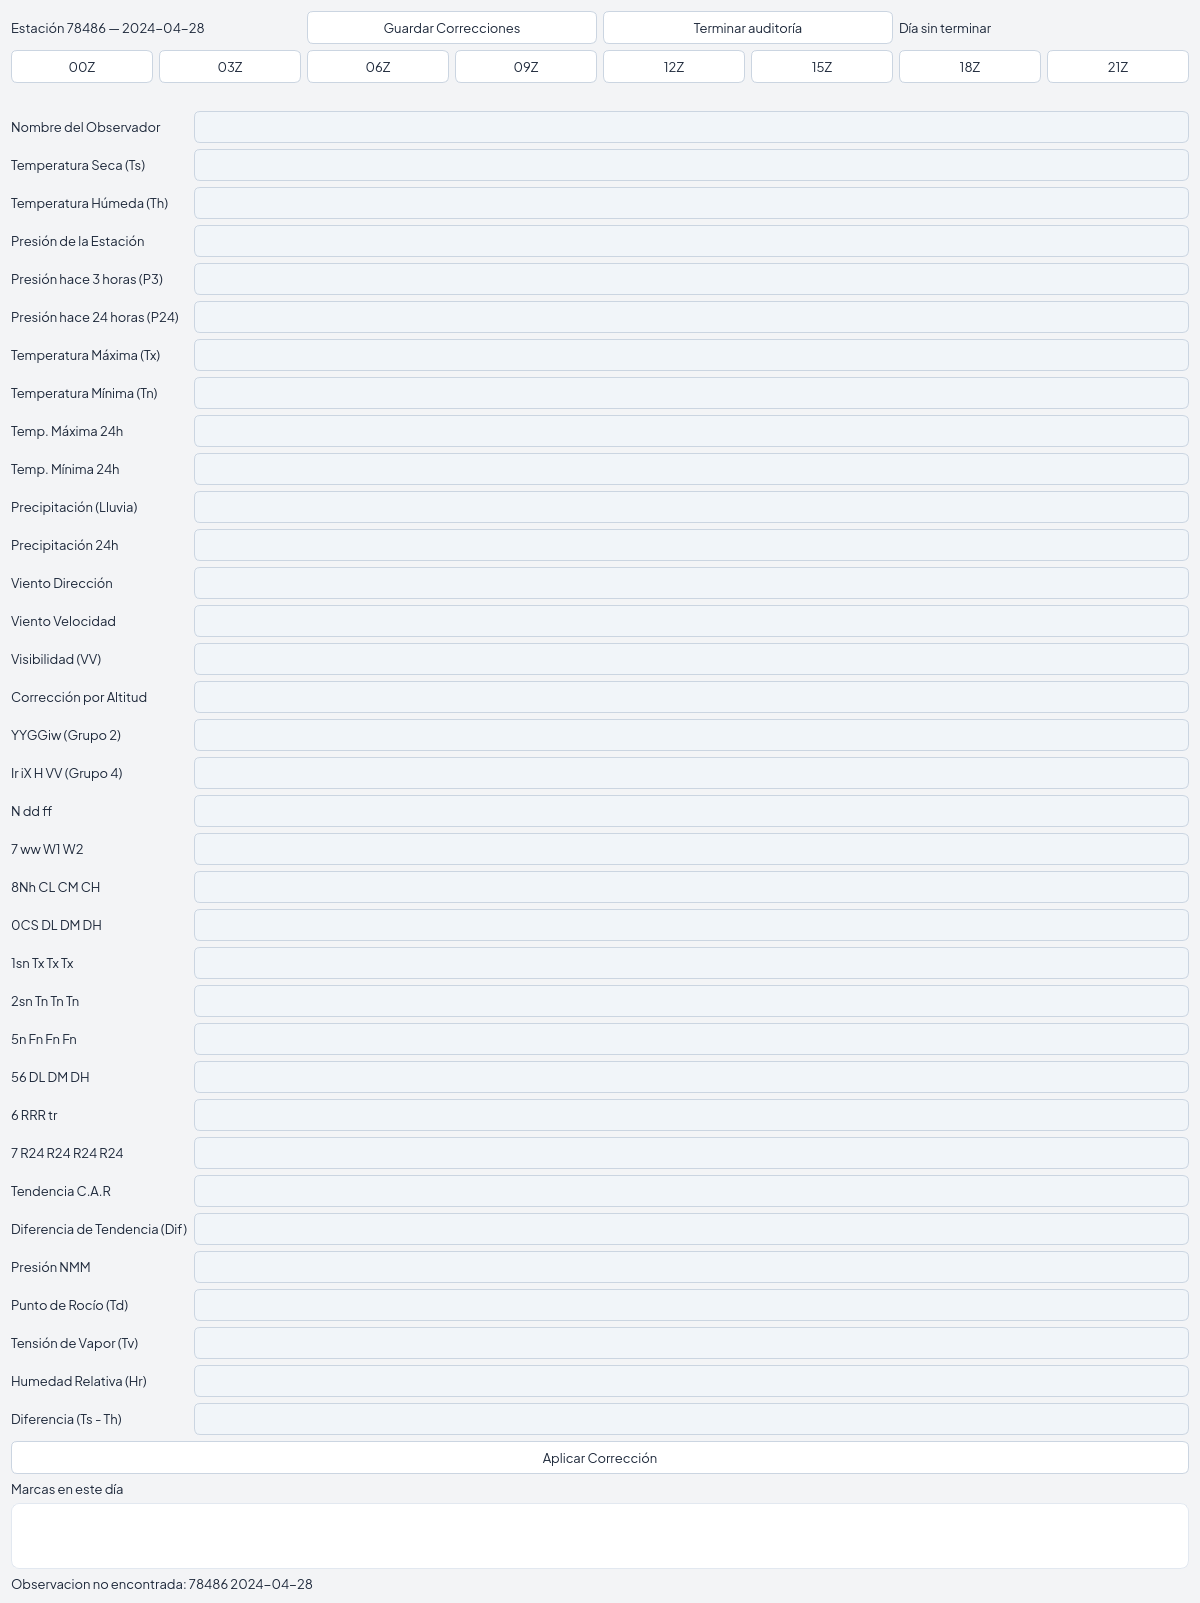
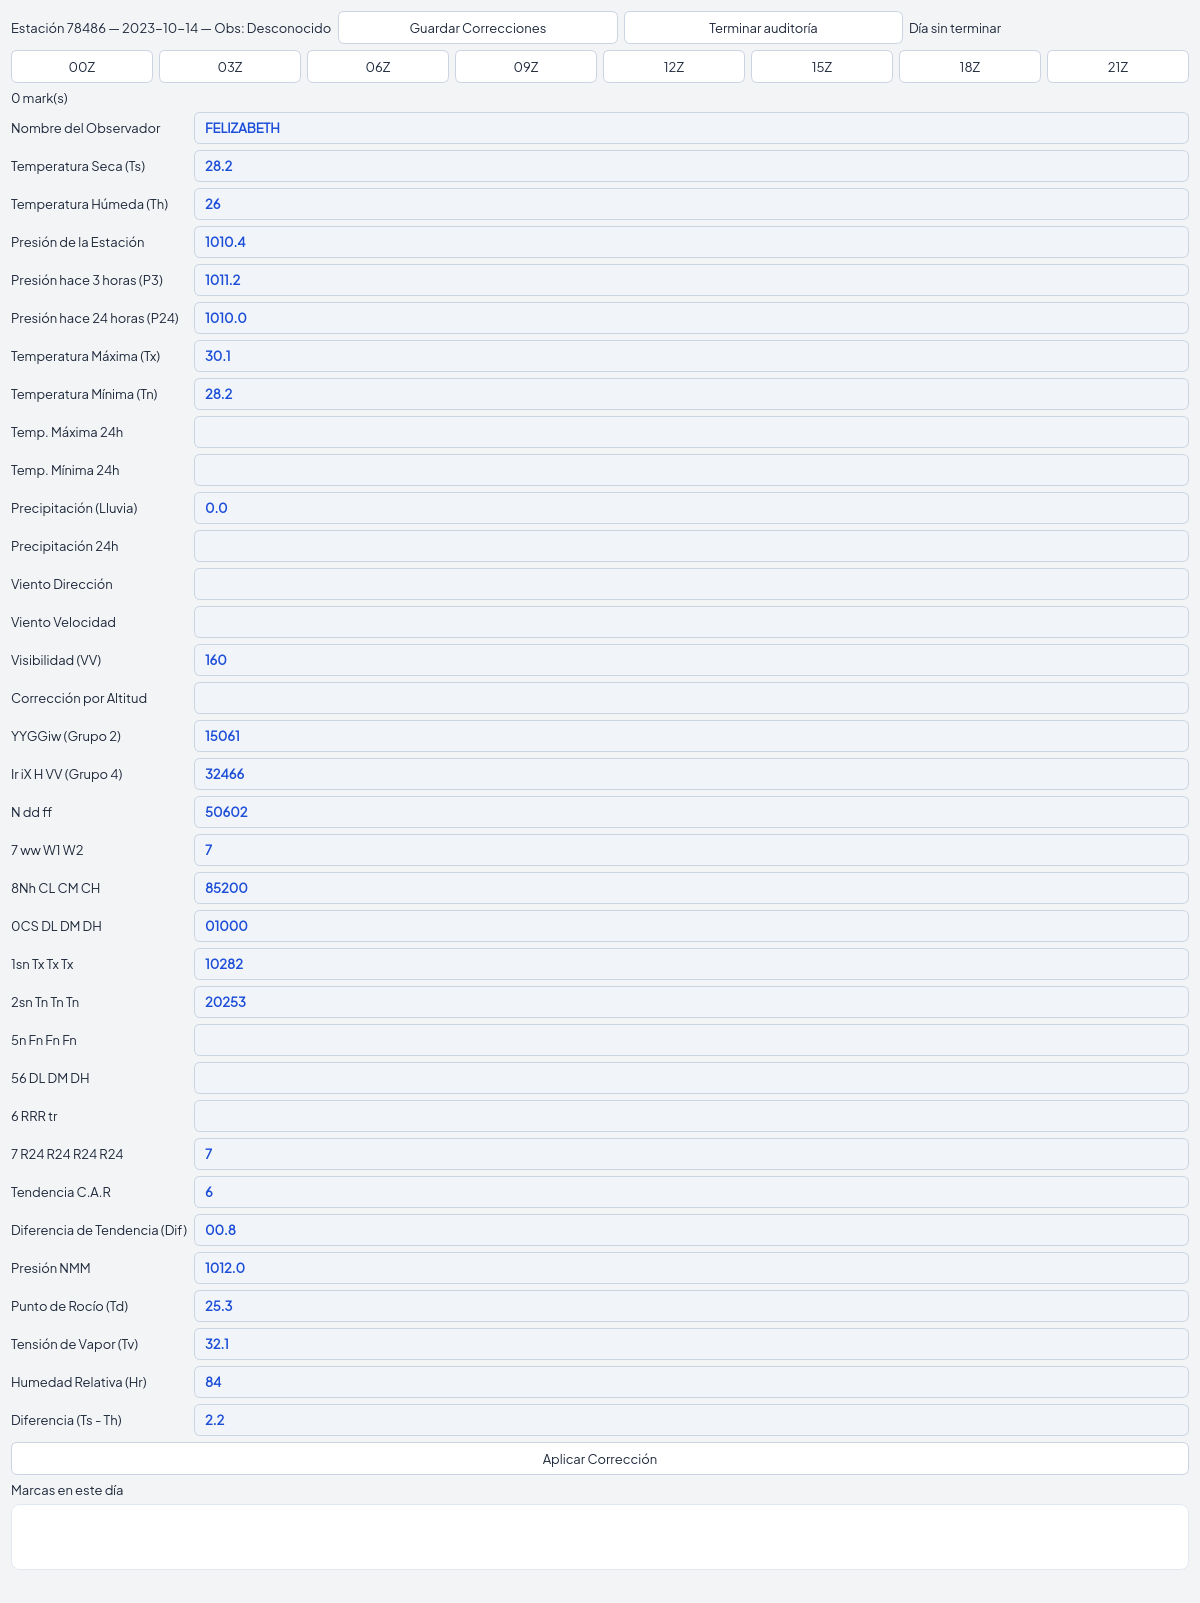
fix(audit): read the schema 2 day, so migrated observations can be audited
Found while capturing evidence with the owner's real database: the audit
window opened every migrated day as an empty observation.

load_observation_with_audit() read doc['horas'] — the legacy shape — while the
application writes schema 2, where the hours live under 'synop' with the FORM
keys already (meteo_4_1, ts, ...). The function now takes that branch through
day_document_from_stored() and builds the flat oracle view from it, keeping the
legacy branch untouched. The verbatim auto-mark rule ('Falta nombre de
observador') works again on today's documents.

Verified on the real archive: 78486 / 2023-10-14 now loads its eight hours
(06Z ts=28.2, Nddff=50602, observer FELIZABETH).

Note: the real database was migrated to M007 (audit_days), the same additive
step the application runs at startup (user_version 6 -> 7).

Tests: 3 new (a schema 2 day loads, a legacy day still loads, the missing
observer of a schema 2 hour is auto-marked). Full suite: 779 passed.

diff --git a/tests/test_a20_audit_report.py b/tests/test_a20_audit_report.py
@@ -385,3 +385,51 @@ def test_a_clean_day_still_reads_as_audited_once_closed(fresh_db):
         auditado_por="qc@oms",
     )
     assert "auditado" in day_badge(fresh_db, "78486", day)
+
+
+# --------------------------- the audit view reads the schema 2 day (round 25)
+
+
+def test_the_audit_view_loads_a_schema2_day(fresh_db):
+    """Migrated days store {synop{...}}; the oracle shape is flat."""
+    from oms_core.services import synoptic as synoptic_service
+
+    synoptic_service.save_hour(fresh_db, "78486", "2024-04-28", "06Z", {
+        "ts": "28.4", "meteo_4_1": "50602", "meteo_4_6": "70311",
+        "nombre_observador": "YASSER GALAN",
+    })
+    data = audit_service.load_observation_with_audit(fresh_db, "78486", "2024-04-28")
+    hour = data["observation"]["06Z"]
+    assert hour["ts"] == "28.4"
+    assert hour["meteo_4_1"] == "50602"
+    assert hour["observador"] == "YASSER GALAN"
+
+
+def test_the_audit_view_still_reads_a_legacy_day(fresh_db):
+    """The old {horas{...}} documents keep working."""
+    import json
+
+    fresh_db.execute(
+        "INSERT INTO summary_logs (station_id, year, month, day, kind, data)"
+        " VALUES ('78486', 2024, 5, 9, 'diario', ?)",
+        (json.dumps({
+            "meta": {"estacion": "78486", "fecha": "09052024", "observador": "MARTA"},
+            "horas": {"09Z": {"datos": {"ts": "25.1"},
+                              "synop": {"Nddff": "40102"},
+                              "observador": "MARTA"}},
+        }),),
+    )
+    fresh_db.commit()
+    data = audit_service.load_observation_with_audit(fresh_db, "78486", "2024-05-09")
+    assert data["observation"]["09Z"]["ts"] == "25.1"
+    assert data["observation"]["09Z"]["meteo_4_1"] == "40102"
+
+
+def test_a_schema2_hour_without_observer_is_auto_marked(fresh_db):
+    from oms_core.services import synoptic as synoptic_service
+
+    synoptic_service.save_hour(fresh_db, "78486", "2024-04-30", "12Z", {"ts": "27.0"})
+    data = audit_service.load_observation_with_audit(fresh_db, "78486", "2024-04-30")
+    marks = [m for m in data["error_marks"] if m["campo"] == "observador"]
+    assert [m["hora"] for m in marks] == ["12Z"]
+    assert marks[0]["marcado_por"] == "Sistema de Calidad"

diff --git a/oms_core/services/audit.py b/oms_core/services/audit.py
@@ -488,9 +488,25 @@ def load_observation_with_audit(
         "observador": meta_observador,
     }
     horas = doc.get("horas") if isinstance(doc.get("horas"), dict) else {}
-    for hora_key, hora_val in horas.items():
-        if isinstance(hora_val, dict):
-            observation[hora_key] = _flatten_hora(hora_val, meta_observador, station)
+    if horas:
+        for hora_key, hora_val in horas.items():
+            if isinstance(hora_val, dict):
+                observation[hora_key] = _flatten_hora(hora_val, meta_observador, station)
+    elif isinstance(doc.get("synop"), dict):
+        # Schema 2 (what the application writes today) stores the hours under
+        # ``synop`` with the FORM keys already; the audit view wants exactly
+        # that flat shape, so no second mapping is needed. Without this branch
+        # every migrated day opened as an empty observation.
+        from oms_core.services.document import day_document_from_stored
+
+        day = day_document_from_stored(doc, station, fecha)
+        for hora, hour_data in day.horas.items():
+            flat: dict[str, Any] = dict(hour_data)
+            flat["station_id"] = station
+            flat["observador"] = (
+                str(flat.get("nombre_observador") or "") or meta_observador
+            )
+            observation[hora] = flat
 
     corrections = audit_repo.get_corrections(conn, station, fecha)
     error_marks = audit_repo.get_error_marks(conn, station, fecha)
